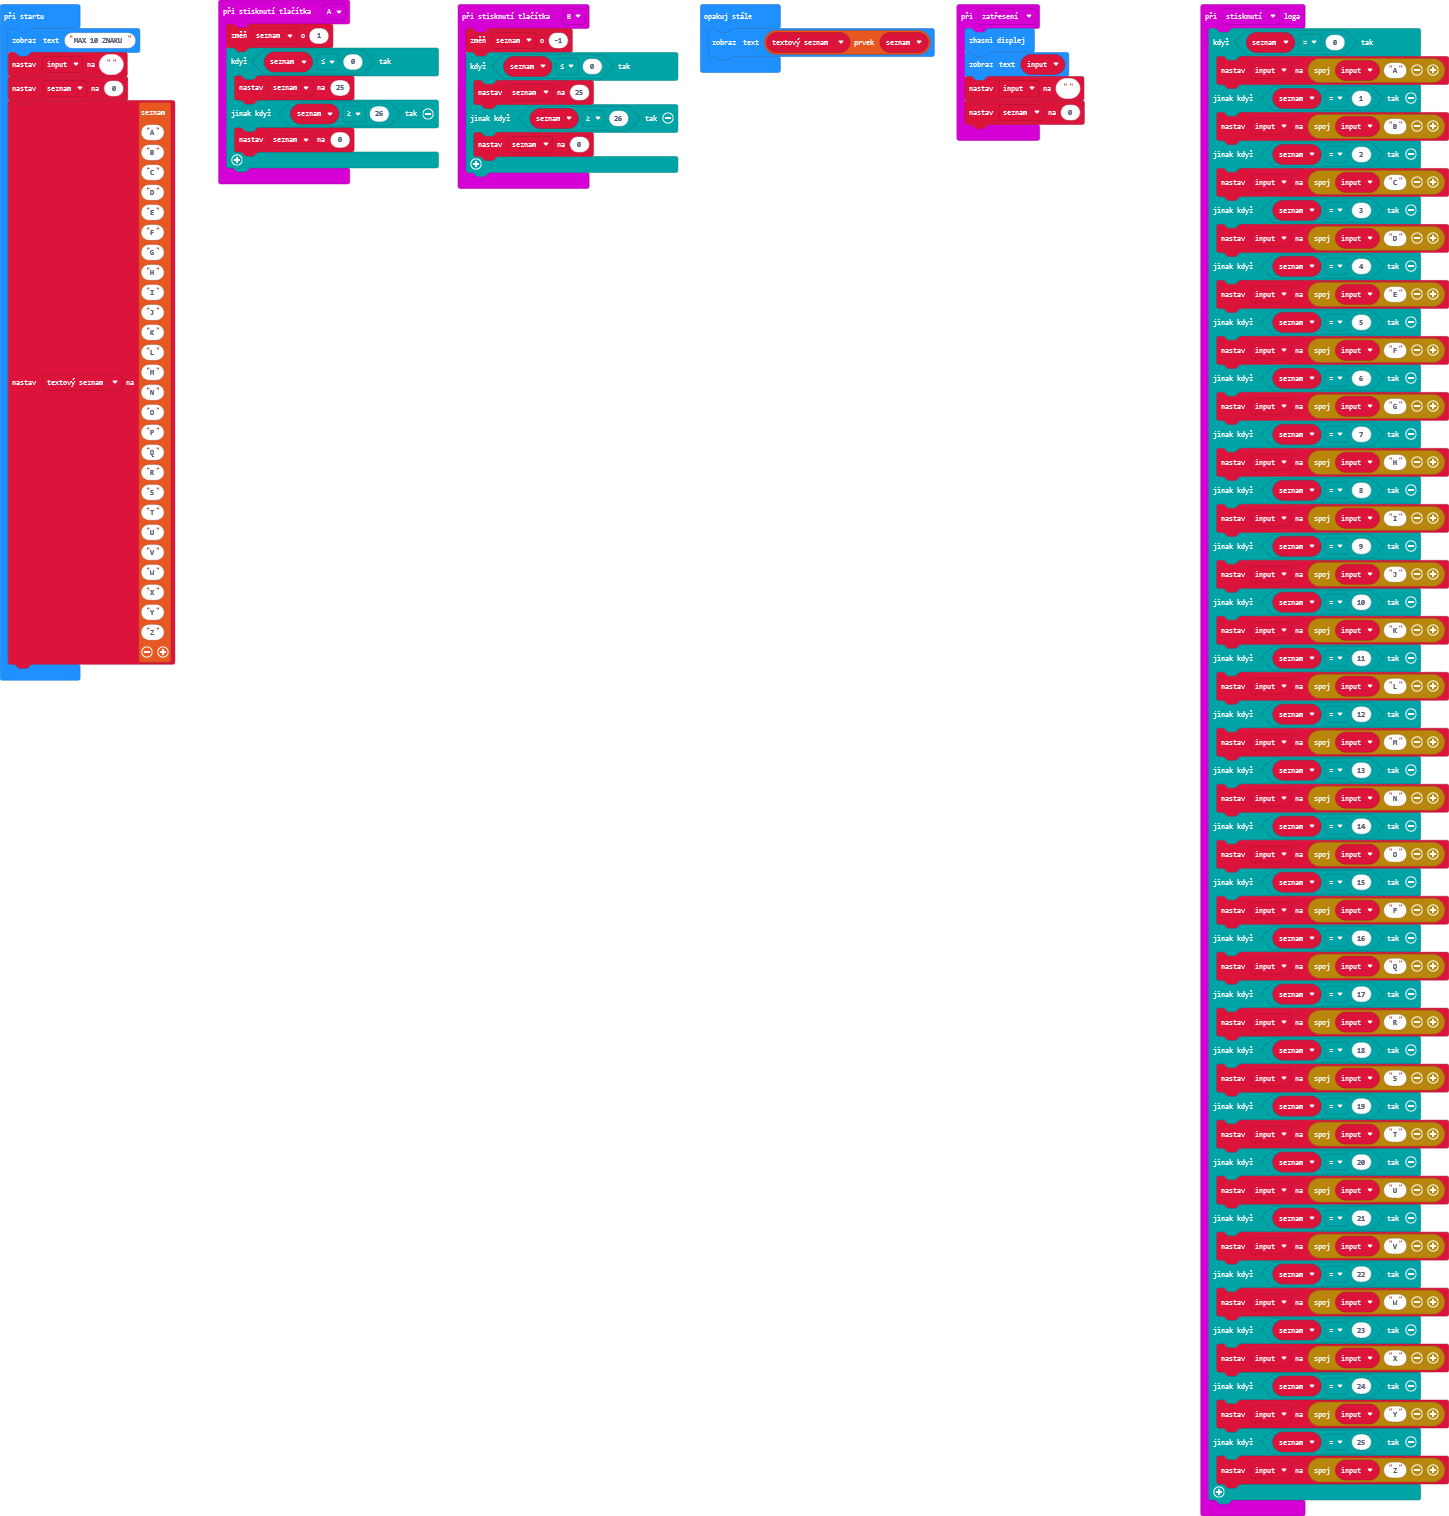
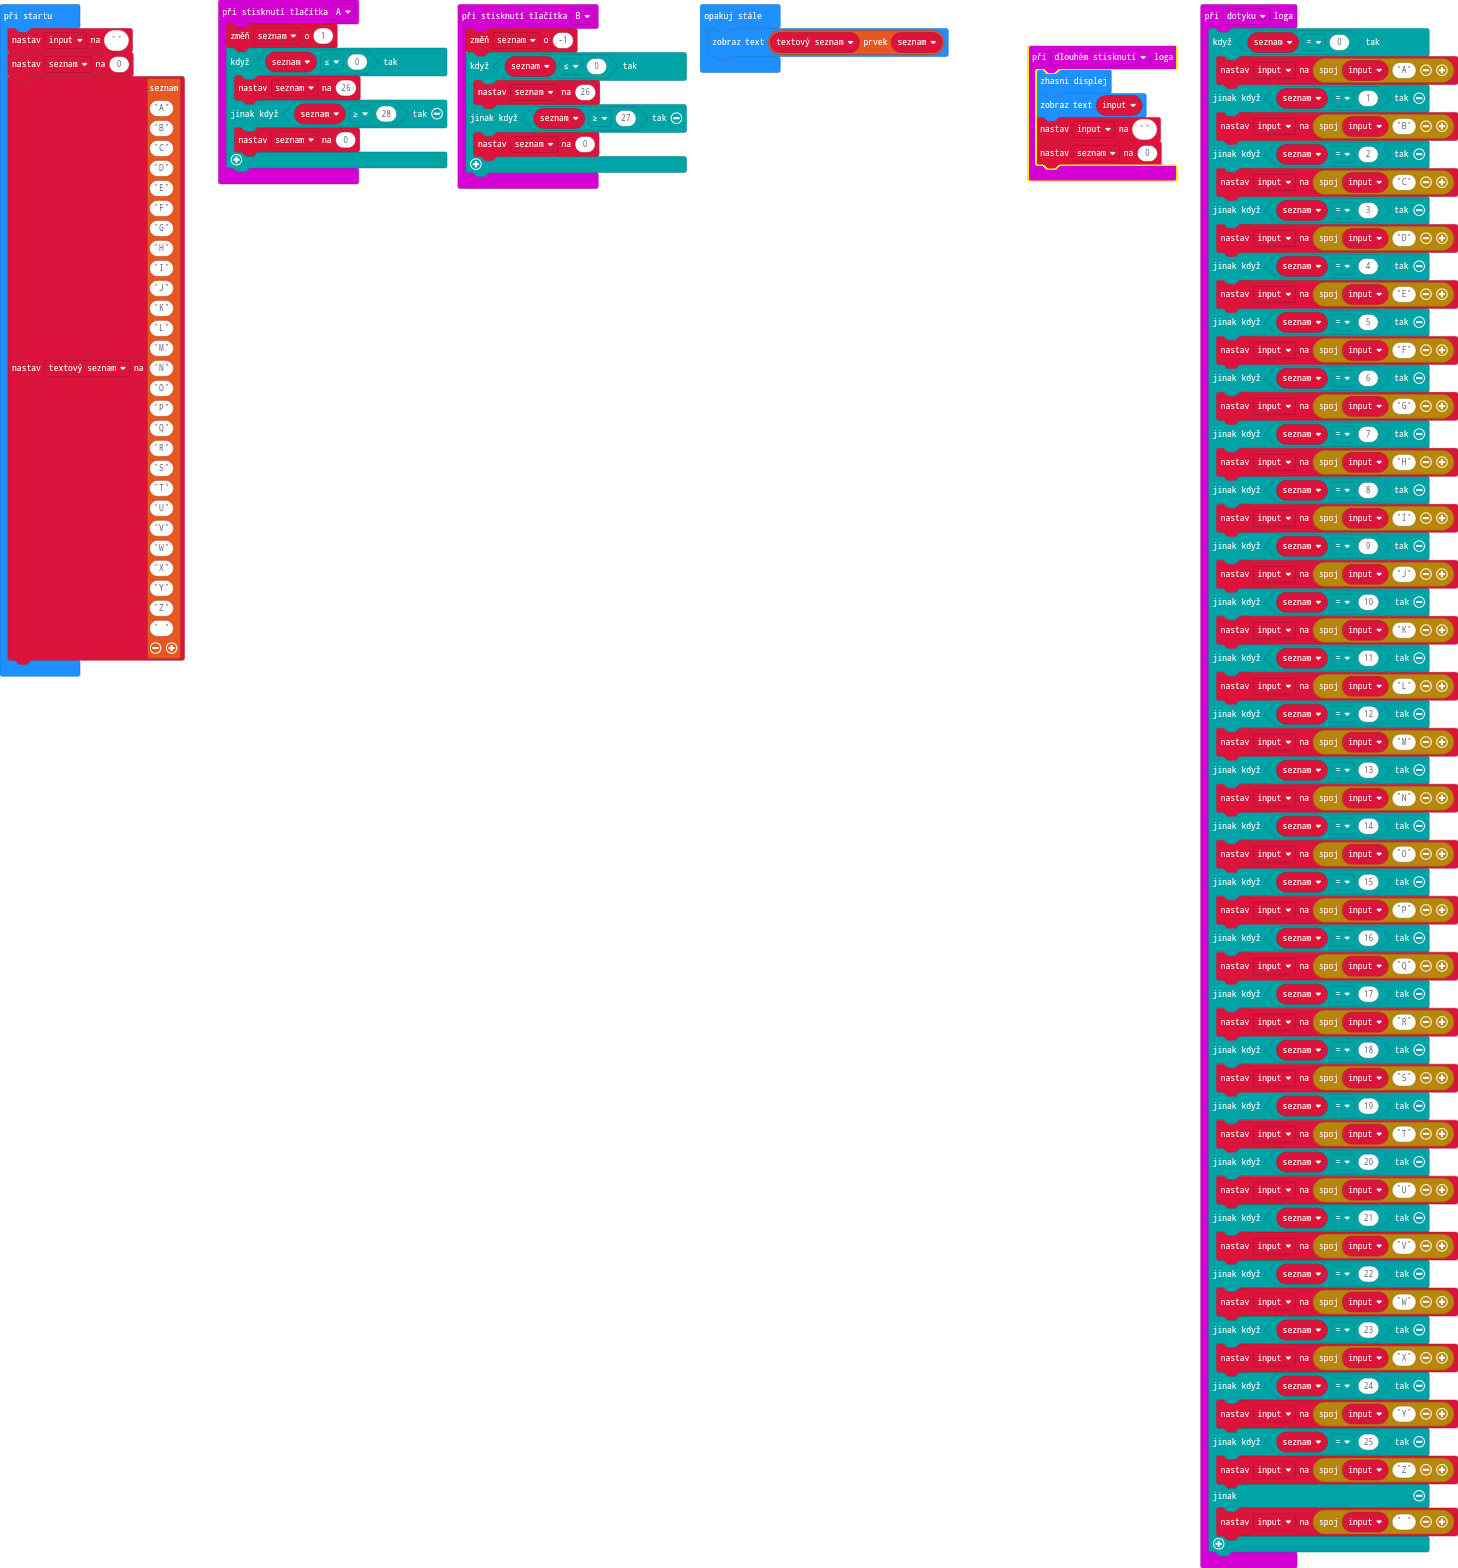
Aktualizovat main.blocks, main.ts

Changed region(s): [[0.0, 0.0, 1.0, 1.0], [0.0311, 0.217, 0.0621, 0.248]]

diff --git a/main.ts b/main.ts
@@ -1,12 +1,12 @@
 input.onButtonPressed(Button.A, function () {
     seznam += 1
     if (seznam <= 0) {
-        seznam = 25
-    } else if (seznam >= 26) {
+        seznam = 26
+    } else if (seznam >= 28) {
         seznam = 0
     }
 })
-input.onLogoEvent(TouchButtonEvent.Pressed, function () {
+input.onLogoEvent(TouchButtonEvent.Touched, function () {
     if (seznam == 0) {
         input2 = "" + input2 + "A"
     } else if (seznam == 1) {
@@ -59,25 +59,26 @@ input.onLogoEvent(TouchButtonEvent.Pressed, function () {
         input2 = "" + input2 + "Y"
     } else if (seznam == 25) {
         input2 = "" + input2 + "Z"
+    } else {
+        input2 = "" + input2 + " "
     }
 })
-input.onButtonPressed(Button.B, function () {
-    seznam += -1
-    if (seznam <= 0) {
-        seznam = 25
-    } else if (seznam >= 26) {
-        seznam = 0
-    }
-})
-input.onGesture(Gesture.Shake, function () {
+input.onLogoEvent(TouchButtonEvent.LongPressed, function () {
     basic.clearScreen()
     basic.showString(input2)
     input2 = ""
     seznam = 0
 })
+input.onButtonPressed(Button.B, function () {
+    seznam += -1
+    if (seznam <= 0) {
+        seznam = 26
+    } else if (seznam >= 27) {
+        seznam = 0
+    }
+})
 let seznam = 0
 let input2 = ""
-basic.showString("MAX 10 ZNAKU")
 input2 = ""
 seznam = 0
 let textový_seznam = [
@@ -106,7 +107,8 @@ let textový_seznam = [
 "W",
 "X",
 "Y",
-"Z"
+"Z",
+" "
 ]
 basic.forever(function () {
     basic.showString("" + (textový_seznam[seznam]))
